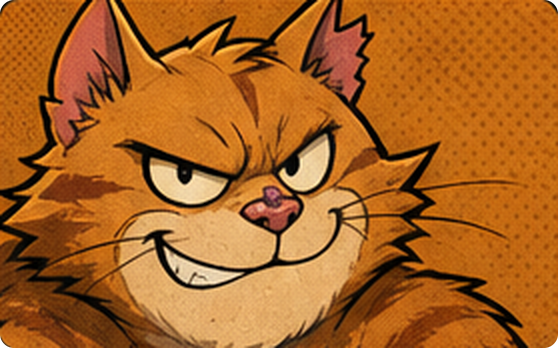
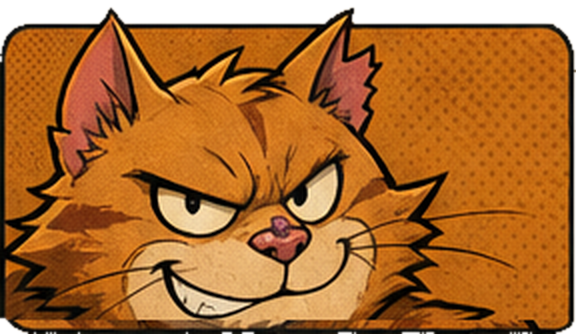
Cat cards: the concept's window cut in one piece with its own ink frame and the ear tips sticking out over it (outline follows the drawing's ink); same frame aspect for every cat; rounded card cut from the concept's card frame (9-sliced); no backing strip under the three cards

diff --git a/Tools/cut_card_portraits.py b/Tools/cut_card_portraits.py
@@ -1,41 +1,134 @@
-"""Cat card pictures (portrait on its coloured halftone backdrop) cut straight from the hideout concept.
+"""Cat card pictures and the card itself, cut straight from the hideout concept.
 
-The windows are cut inside their ink border, so no paper pixels from the card frame get in; the corners are
-rounded with an antialiased mask to match the concept's rounded windows. The game draws its own ink border.
-Usage: python3 Tools/cut_card_portraits.py  -> ArtSource/UI/cards_v1_concept/ + Assets/_Project/Art/Characters/<Cat>/Card/
+Picture: the concept's window in one piece (portrait, coloured halftone backdrop and the window's own rounded ink
+frame) plus the ear tips that stick out above the frame onto the card's paper. The outline is the drawing's own:
+a flood fill through the paper around the piece, stopped by the ink, and the rest is the picture. The windows differ in height, so the taller ones lose rows above the bottom
+edge (the chin) and get the concept's own bottom frame back: every picture has the same frame aspect.
+
+Card: Shnyr's card frame from the concept (rounded cardboard edge with an ink line), the inside painted over with
+paper, as a 9-sliced sprite.
+
+v1 (ArtSource/UI/cards_v1_concept): window inside its frame, the whole cat in it.
+v2 (ArtSource/UI/cards_v2_ears): cut-out cat over a drawn frame (rejected: the cat and the card cut separately).
+v3 (ArtSource/UI/cards_v3_window): this one.
+Needs numpy and Pillow.  Usage: python3 Tools/cut_card_portraits.py
 """
 import os
-from PIL import Image, ImageDraw
+from collections import deque
+
+import numpy as np
+from PIL import Image, ImageDraw, ImageFilter
 
 CONCEPT = "Docs/ArtDirection/Concepts/round1/blind/hideout_A.png"
-# inner window of each card (left, top, right, bottom), just inside the ink border
-WINDOWS = {"Ryzhy": (43, 1081, 322, 1255), "shnyr": (380, 1080, 641, 1231), "ponchik": (699, 1080, 981, 1232)}
-SCALE = 2  # upscaled so the card window is not magnified in game
-RADIUS = 7  # concept px
-ARCHIVE = "ArtSource/UI/cards_v1_concept"
+# window of each card with its ink frame (left, top, right, bottom)
+WINDOWS = {"Ryzhy": (39, 1077, 326, 1260), "shnyr": (376, 1076, 645, 1236), "ponchik": (694, 1077, 985, 1237)}
+EARS_TOP = 1066  # just under the card's inner ink line: the paper band the ears stick out into
+ASPECT = 1.84  # frame width / height, the same for every cat (the game lays the cards out alike)
+BOTTOM_FRAME = 7  # rows of the concept's bottom frame put back under a shortened window
+MARGIN = 3  # paper taken around the window so the fill can go round it
+PAPER_LUMA = 150
+SCALE = 2
+SS = 4  # supersampling of the panel mask
+ARCHIVE = "ArtSource/UI/cards_v3_window"
+
+# the card itself: Shnyr's card from the concept (outer edge of its ink outline), the inside painted over with paper
+PANEL = (353, 1052, 667, 1362)
+PANEL_RADIUS = 19
+PANEL_INSIDE = (367, 1067, 654, 1347)  # everything inside the inner ink line but a pixel of paper
+PAPER_SAMPLE = (366, 1150, 374, 1300)  # clean paper between the frame and the bars
+PANEL_INNER_RADIUS = 10
+PANEL_SLICE = 26  # 9-slice border on every side (covers the rounded corners), concept px
+PANEL_SCALE = 2
+PANEL_OUT = "Assets/_Project/Art/UI/card_cat.png"
 
 
-def rounded(im, radius):
-    big = 4
-    mask = Image.new("L", (im.width * big, im.height * big), 0)
-    ImageDraw.Draw(mask).rounded_rectangle((0, 0, mask.width - 1, mask.height - 1), radius * big, fill=255)
-    out = im.convert("RGBA")
-    out.putalpha(mask.resize(im.size, Image.LANCZOS))
-    return out
+def flood(passable, seeds):
+    h, w = passable.shape
+    seen = np.zeros((h, w), bool)
+    queue = deque()
+    for y, x in seeds:
+        if passable[y, x] and not seen[y, x]:
+            seen[y, x] = True
+            queue.append((y, x))
+    while queue:
+        y, x = queue.popleft()
+        for yy, xx in ((y + 1, x), (y - 1, x), (y, x + 1), (y, x - 1)):
+            if 0 <= yy < h and 0 <= xx < w and not seen[yy, xx] and passable[yy, xx]:
+                seen[yy, xx] = True
+                queue.append((yy, xx))
+    return seen
+
+
+def outline_mask(piece):
+    """Everything inside the ink outline: the piece minus the paper around it, found by a flood fill from the
+    edges through light warm pixels that the ink stops; specks drawn on the paper are dropped."""
+    h, w, _ = piece.shape
+    lum = piece.mean(2)
+    paper = (lum > PAPER_LUMA) & (piece[..., 0] > piece[..., 2] + 20)
+    edges = [(0, x) for x in range(w)] + [(h - 1, x) for x in range(w)] + [(y, 0) for y in range(h)] + [(y, w - 1) for y in range(h)]
+    inside = flood(~flood(paper, edges), [(h // 2, w // 2)])
+    # the antialiased paper rim around the ink goes: one pixel of erosion
+    eroded = inside.copy()
+    for dy, dx in ((0, 1), (0, -1), (1, 0), (-1, 0)):
+        eroded &= np.roll(np.roll(inside, dy, 0), dx, 1)
+    return eroded
+
+
+def card(src, key):
+    left, top, right, bottom = WINDOWS[key]
+    width = right - left
+    height = min(bottom - top, round(width / ASPECT))
+    m = MARGIN
+    # the paper band with the ear tips, the window's top part and the concept's own bottom frame, with paper around
+    piece = np.concatenate([src[EARS_TOP: top + height - BOTTOM_FRAME, left - m: right + m],
+                            src[bottom - BOTTOM_FRAME: bottom + m, left - m: right + m]])
+    mask = outline_mask(piece.astype(int))
+    ys, xs = np.nonzero(mask)
+    box = (xs.min(), 0, xs.max() + 1, ys.max() + 1)  # the frame touches the sides and the bottom
+    size = ((box[2] - box[0]) * SCALE, (box[3] - box[1]) * SCALE)
+    image = Image.fromarray(piece.astype(np.uint8)).crop(box).resize(size, Image.LANCZOS)
+    alpha = Image.fromarray((mask * 255).astype(np.uint8), "L").crop(box).resize(size, Image.BILINEAR)
+    image.putalpha(alpha.filter(ImageFilter.GaussianBlur(0.5)))
+    return image
+
+
+def panel(src):
+    """9-sliced card: the concept's rounded cardboard frame with an ink line and a paper inside."""
+    left, top, right, bottom = PANEL
+    card = src[top:bottom, left:right].astype(float)
+    il, it, ir, ib = (PANEL_INSIDE[0] - left, PANEL_INSIDE[1] - top, PANEL_INSIDE[2] - left, PANEL_INSIDE[3] - top)
+    sl, st, sr, sb = PAPER_SAMPLE
+    margin = src[st:sb, sl:sr].reshape(-1, 3).astype(float)
+    paper = np.median(margin, 0)
+    rng = np.random.default_rng(7)
+    grain = rng.normal(0, margin.std(0).mean() * 0.35, (ib - it, ir - il, 1))
+    fill = Image.new("L", (right - left, bottom - top), 0)
+    ImageDraw.Draw(fill).rounded_rectangle((il, it, ir - 1, ib - 1), PANEL_INNER_RADIUS, fill=255)
+    fill = np.array(fill.filter(ImageFilter.GaussianBlur(0.6)))[it:ib, il:ir, None] / 255.0
+    card[it:ib, il:ir] = card[it:ib, il:ir] * (1 - fill) + (paper + grain) * fill
+    w, h = right - left, bottom - top
+    image = Image.fromarray(np.clip(card, 0, 255).astype(np.uint8)).resize((w * PANEL_SCALE, h * PANEL_SCALE), Image.LANCZOS)
+    k = PANEL_SCALE * SS
+    mask = Image.new("L", (w * k, h * k), 0)
+    ImageDraw.Draw(mask).rounded_rectangle((0, 0, w * k - 1, h * k - 1), PANEL_RADIUS * k, fill=255)
+    image.putalpha(mask.resize(image.size, Image.LANCZOS))
+    image.save(PANEL_OUT)
+    image.save(f"{ARCHIVE}/card_cat.png")
+    # 9-slice borders (left, bottom, right, top) for Tools/import_ui.py SLICES / Art/UI/slices.json
+    print("card_cat", image.size, "slices", PANEL_SLICE * PANEL_SCALE)
 
 
 def main():
-    src = Image.open(CONCEPT).convert("RGB")
+    src = np.array(Image.open(CONCEPT).convert("RGB"))
     os.makedirs(ARCHIVE, exist_ok=True)
-    for key, box in WINDOWS.items():
-        crop = src.crop(box)
-        crop = crop.resize((crop.width * SCALE, crop.height * SCALE), Image.LANCZOS)
-        card = rounded(crop, RADIUS * SCALE)
-        card.save(f"{ARCHIVE}/{key.lower()}_card.png")
+    for key in WINDOWS:
+        image = card(src, key)
+        image.save(f"{ARCHIVE}/{key.lower()}_card.png")
         folder = f"Assets/_Project/Art/Characters/{key}/Card"
         os.makedirs(folder, exist_ok=True)
-        card.save(f"{folder}/{key.lower()}_card.png")
-        print(key, card.size)
+        image.save(f"{folder}/{key.lower()}_card.png")
+        print(key, image.size)
+    panel(src)
 
 
 if __name__ == "__main__":

diff --git a/Assets/_Project/Scripts/Presentation/Hideout/CatPanelView.cs b/Assets/_Project/Scripts/Presentation/Hideout/CatPanelView.cs
@@ -28,7 +28,7 @@ namespace TrashCats.Presentation.Hideout
             _onResult = onResult;
             _art = art;
 
-            Ui.Card(root, "PanelBack", CardStyle.Tin).rectTransform.Fill();
+            // no backing strip: the cards stand on the scene, as in the concept
             for (var i = 0; i < Slots; i++)
             {
                 var slot = Ui.Rect(root, "Slot" + i);
@@ -79,6 +79,11 @@ namespace TrashCats.Presentation.Hideout
 
                 var background = Ui.Card(slot, "CatCard" + index, CardStyle.Strip, raycast: true);
                 background.rectTransform.Fill();
+                if (Ui.Skin?.catCard != null)
+                {
+                    background.sprite = Ui.Skin.catCard;
+                    background.pixelsPerUnitMultiplier = Ui.Skin.catCardBorderScale;
+                }
                 background.gameObject.AddComponent<Button>().onClick.AddListener(() =>
                 {
                     if (_cat != null) _owner._onCardTapped(_cat.Id);
@@ -104,19 +109,21 @@ namespace TrashCats.Presentation.Hideout
                 var window = Ui.Rect(border.transform, "Window").Fill(4);
                 _backdrop = Ui.Panel(window, "Backdrop", Palette.PanelDark);
                 _backdrop.rectTransform.Fill();
-                // the concept's card picture (portrait already on its backdrop) covers the whole window when there is one
-                window.gameObject.AddComponent<RectMask2D>();
-                _card = Ui.Panel(window, "Card", Color.white);
-                _card.rectTransform.pivot = new Vector2(0.5f, 1f); // ears stay in; the extra goes off the bottom, under the name
-                _card.gameObject.AddComponent<AspectRatioFitter>().aspectMode = AspectRatioFitter.AspectMode.EnvelopeParent;
+                // the concept's card picture: a rounded framed window with the ears sticking out over its top edge.
+                // The frame touches the picture's sides and bottom, so it is laid out by width from the bottom.
+                _card = Ui.Panel(content, "Card", Color.white);
+                _card.rectTransform.Place(new Vector2(0, 1), new Vector2(1, 1), new Vector2(0, -170), new Vector2(0, -170));
+                _card.rectTransform.pivot = new Vector2(0.5f, 0f);
+                var fitter = _card.gameObject.AddComponent<AspectRatioFitter>();
+                fitter.aspectMode = AspectRatioFitter.AspectMode.WidthControlsHeight;
                 // the bust is clipped at the bottom and sides only: the ears stick out over the card, like in the concept
                 var clip = Ui.Rect(border.transform, "BustClip").Place(Vector2.zero, Vector2.one, new Vector2(4, 4), new Vector2(-4, 110));
                 clip.gameObject.AddComponent<RectMask2D>();
                 _portrait = Ui.Panel(clip, "Portrait", Color.white);
                 _portrait.preserveAspect = true;
                 _portrait.rectTransform.Place(new Vector2(0.04f, 0f), new Vector2(0.96f, 1f), Vector2.zero, new Vector2(0, -40));
-                _portraitName = Ui.Label(border.transform, "", 34, TextAnchor.LowerCenter, Palette.Paper, heading: true);
-                _portraitName.rectTransform.Fill(4);
+                _portraitName = Ui.Label(content, "", 34, TextAnchor.LowerCenter, Palette.Paper, heading: true);
+                _portraitName.rectTransform.Place(new Vector2(0, 1), new Vector2(1, 1), new Vector2(4, -166), new Vector2(-4, -60));
                 _portraitName.Outlined();
 
                 _status = Ui.Label(content, "", 26, TextAnchor.MiddleCenter, Palette.Ink);
@@ -154,9 +161,7 @@ namespace TrashCats.Presentation.Hideout
                 var key = session.Config.GetCat(cat.Id).ViewKey;
                 var card = key != null ? _owner._art?.Card(key) : null;
                 var portrait = card ?? (key != null ? _owner._art?.Portrait(key) : null);
-                _portrait.transform.parent.parent.gameObject.SetActive(portrait != null);
-                _portrait.transform.parent.gameObject.SetActive(card == null);
-                _backdrop.gameObject.SetActive(card == null);
+                _portrait.transform.parent.parent.gameObject.SetActive(portrait != null && card == null);
                 _card.gameObject.SetActive(card != null);
                 if (card != null)
                 {
@@ -165,6 +170,7 @@ namespace TrashCats.Presentation.Hideout
                 }
                 _backdrop.color = CatColors.Backdrop(cat.Id);
                 _header.gameObject.SetActive(portrait == null);
+                _portraitName.gameObject.SetActive(portrait != null);
                 if (portrait != null)
                 {
                     if (card == null) _portrait.sprite = portrait;

diff --git a/Assets/_Project/Editor/UiSkinBuilder.cs b/Assets/_Project/Editor/UiSkinBuilder.cs
@@ -64,6 +64,7 @@ namespace TrashCats.Editor
             skin.buttonSecondary = Sprite("button_a_blue") ?? Sprite("button_blue");
             skin.paper = Sprite("panel_a") ?? Sprite("panel_paper");
             skin.tin = Sprite("hud_a") ?? Sprite("panel_tin");
+            skin.catCard = Sprite("card_cat");
             skin.barFrame = Sprite("hud_a") ?? Sprite("bar_frame");
             // the concept's bars are plain tracks with an icon beside them (Ui.Bar), not badge bars
             skin.badgeBars = new List<NamedSprite>();

diff --git a/Assets/_Project/Scripts/Presentation/UI/UiSkin.cs b/Assets/_Project/Scripts/Presentation/UI/UiSkin.cs
@@ -30,6 +30,8 @@ namespace TrashCats.Presentation.UI
         public float paperBorderScale = 1.6f;
         [Tooltip("Dark painted tin (HUD, navigation)")] public Sprite tin;
         public float tinBorderScale = 2f;
+        [Tooltip("Rounded cat card of the hideout, cut from the concept")] public Sprite catCard;
+        public float catCardBorderScale = 1.7f;
 
         [Header("Bars and decorations")]
         public Sprite barFrame;

diff --git a/Tools/import_ui.py b/Tools/import_ui.py
@@ -61,6 +61,7 @@ SLICES = {
     "button_white": (60, 62, 150, 118),
     "panel_paper": (120, 70, 120, 118),
     "panel_tin": (110, 110, 110, 110),
+    "card_cat": (52, 52, 52, 52),  # Tools/cut_card_portraits.py
     "bar_frame": (48, 44, 48, 44),
     "bar_energy": (178, 52, 48, 52),
     "bar_satiety": (178, 52, 48, 52),

diff --git a/ArtSource/README.md b/ArtSource/README.md
@@ -20,3 +20,5 @@
 | Папка | Что это | Источник |
 |---|---|---|
 | `UI/cards_v1_concept` | картинки для карточек в убежище: портрет на цветной подложке, вырезаны из окошек карточек концепта внутри чернильной рамки, ×2, скруглённые углы | `Docs/ArtDirection/Concepts/round1/blind/hideout_A.png`, `Tools/cut_card_portraits.py` |
+| `UI/cards_v2_ears` | вырезанный по силуэту кот поверх нарисованной рамки (отклонено: кот и карточка резались по отдельности) | `Tools/cut_card_portraits.py` (ранняя версия) |
+| `UI/cards_v3_window` | окошко концепта одним куском вместе с его рамкой + кончики ушей, торчащие над рамкой; контур — по чернильной линии рисунка; высокие окошки укорочены снизу до общего соотношения 1.84 с родной нижней рамкой; `card_cat.png` — скруглённая карточка (рамка карточки Шныря, внутри бумага, 9-slice 52) | `Tools/cut_card_portraits.py` |
